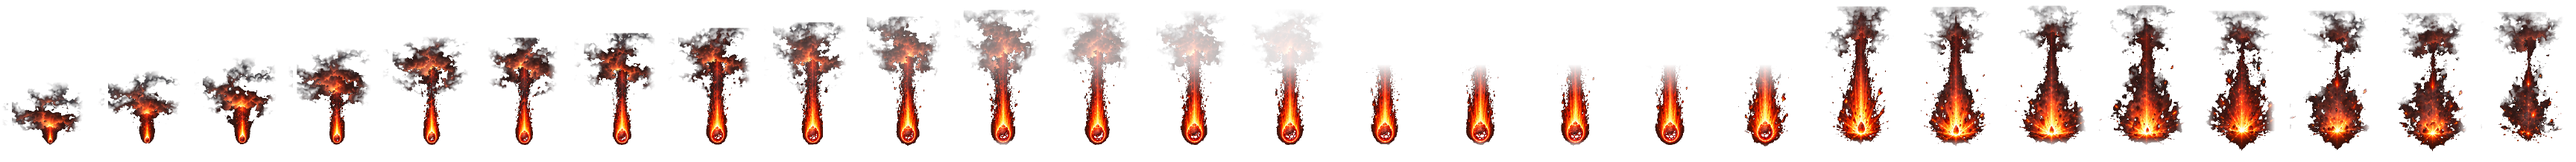
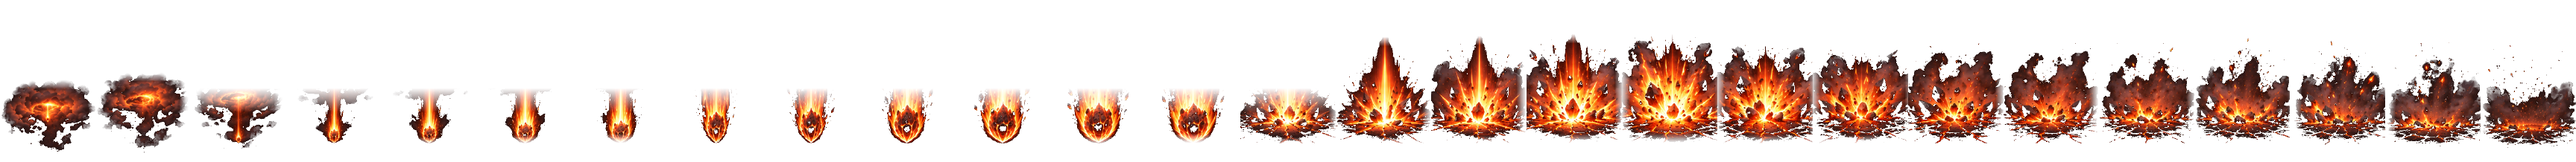
☄ Quarta folha do Meteoro (7×4), com a nuvem apagada no corte
"Remove as nuvens do terceiro em diante e troca no lugar do que estava."

A máquina de apagar fumaça (`veuFumaca`) entrou horas antes para a folha 6×5 e
serviu inteira. O que não serviu foram as MEDIDAS: lá a nuvem era uma COROA que
crescia atrás do meteoro no meio da queda (corte em y 128, rampa 42, do quadro 7
ao 14); aqui é um NINHO no alto de onde a pedra sai (corte em 150, rampa 32,
ligando de uma vez no terceiro). Os quatro números são desta arte e morrem com
ela — mesma natureza da `ESCALA_IMPACTO`, que já perseguiu cinco folhas.

✅ E A GRADE SAIU DO CÓDIGO. Quatro folhas em dois dias vieram 5×5, 3×3, 6×5 e
7×4; `COL` e `POR_COL` viraram argumentos. Um cortador que precisa ser EDITADO a
cada uso deixa de ser reproduzível — e foi isso que quase me custou o asset
errado ontem, ao recortar da `meteoro_vertical.png` em vez da `3`: saíram 17
quadros no lugar de 27, sem erro nenhum na tela.

🔴 O TERCEIRO QUADRO GUARDA UM RESTO DE NUVEM, E É LIMITAÇÃO DE MÉTODO, não um
parâmetro mal escolhido. O corte é medido de baixo para cima porque o que tem de
ficar parado no tile é a ROCHA — a mesma regra que ancora tudo pelo rodapé do
desenho. Nos dois primeiros quadros não existe rocha: o meteoro ainda está dentro
do ninho, e o rodapé É a nuvem. Corte ancorado embaixo não alcança nuvem que está
embaixo. Do quarto em diante o céu sai limpo, e na prática ninguém vê os
primeiros: 40 % do mergulho acontece fora da tela. Se incomodar, o conserto
[…]

diff --git a/client/src/main.ts b/client/src/main.ts
@@ -2831,24 +2831,30 @@ async function startGame(playerName: string, charClass: PlayerClass, gender: Gen
      * a pedra toca o chão, que é o fim do mergulho (`quedaMs`), e os dois lados
      * usam o mesmo número.
      *
-     * 🌫 **A COROA DE FUMAÇA É APAGADA NO CORTE, do meio da queda para o fim**
-     * (dono, 12/09: *"essa nuvem mais do meio pro final não precisa… depois é
-     * somente o meteoro mesmo"*). Quem faz isso é o `veuFumaca` do
+     * 🌫 **A NUVEM É APAGADA NO CORTE** (dono, 12/09: *"remove as nuvens do
+     * terceiro em diante"*). Quem faz isso é o `veuFumaca` do
      * `meteoro-grade2fx`, e ele precisa saber onde a queda acaba — os quadros do
      * estouro têm de 28 a 40 % da massa acima da mesma linha, e essa nuvem é o
-     * efeito. **O 19 do `fracaoQueda` abaixo é o mesmo número**, e vai na linha
+     * efeito. **O 14 do `fracaoQueda` abaixo é o mesmo número**, e vai na linha
      * de comando do cortador.
      *
-     * 🔴 **E a fonte é a `meteoro_vertical3.png`, não a `meteoro_vertical.png`.**
-     * Recortar da primeira dá 17 quadros em vez de 27 — o cortador acha as
-     * ilhas, não erra, é outra arte mesmo. Ficam as três no `arte-fonte/` porque
-     * o dono trocou a folha duas vezes no mesmo dia. Refazer o asset é:
+     * ⚠ **O TERCEIRO quadro guarda um resto de nuvem, e é limitação de método.**
+     * O cortador ancora cada desenho pelo RODAPÉ dele, e nos dois primeiros
+     * quadros não existe pedra: o rodapé é a própria nuvem. Um corte medido de
+     * baixo para cima — que é o que mantém a rocha parada no tile — não alcança
+     * uma nuvem que ESTÁ no rodapé. Do quarto em diante o céu sai limpo. Na
+     * prática ninguém vê: 40 % do mergulho acontece fora da tela.
      *
-     *     node tools/meteoro-grade2fx.mjs arte-fonte/fx/meteoro_vertical3.png meteoro_queda 19
+     * 🔴 **E a FONTE muda a cada folha.** A quarta (`meteoro_vertical4.png`,
+     * 7×4) substituiu a terceira (6×5). Recortar da errada não dá erro — dá
+     * outro número de quadros, e foi assim que uma tira de 17 quase entrou no
+     * lugar de uma de 27. Refazer o asset é:
+     *
+     *     node tools/meteoro-grade2fx.mjs arte-fonte/fx/meteoro_vertical4.png meteoro_queda 14 7 4
      */
     {
       magia: 'meteor_solo', arquivo: 'meteoro_queda', bolts: 1, quadros: 27,
-      fracaoQueda: 19 / 27, duracaoEstouro: 560, desvanece: 180, ancoraY: 0.88,
+      fracaoQueda: 14 / 27, duracaoEstouro: 560, desvanece: 180, ancoraY: 0.88,
       /*
        * ☄ **A pedra já ENTRA grande, e cresce pouco.** Pedido do dono em 13/09:
        * *"pode ser o meteoro um pouco menor e a animação já saindo um meteoro

diff --git a/docs/HISTORICO.md b/docs/HISTORICO.md
@@ -9,6 +9,47 @@ decisões de design ficaram travadas por teste.
 
 ---
 
+## 2026-09-12 (madrugada) — A quarta folha do Meteoro, e a nuvem que o rodapé não deixa apagar
+
+**Onde mora:** `COL`/`POR_COL` por argumento e os quatro `FUMACA_*` em
+`tools/meteoro-grade2fx.mjs` · `fracaoQueda` em `FOLHAS_QUEDA`,
+`client/src/main.ts` · `arte-fonte/fx/meteoro_vertical4.png`
+
+*"Remove as nuvens do terceiro em diante e troca no lugar do que estava."* Folha 7×4, fundo
+preto, com um NINHO de fumaça no alto de onde a pedra sai — desenho diferente da anterior,
+onde a nuvem era uma COROA que crescia atrás do meteoro no meio da queda.
+
+### A máquina de apagar fumaça já existia; o que mudou foram as medidas
+
+O `veuFumaca` entrou horas antes para a folha 6×5 e serviu inteiro. O que não serviu foram
+os números: lá o corte era em y 128 com rampa de 42, ligando do quadro 7 ao 14; aqui é 150
+com rampa de 32, ligando de uma vez no terceiro. ⚠ **Os quatro são desta ARTE e morrem com
+ela** — é a mesma natureza da `ESCALA_IMPACTO`, que já perseguiu cinco folhas.
+
+✅ **E a grade saiu do código.** Quatro folhas em dois dias vieram 5×5, 3×3, 6×5 e 7×4;
+`COL` e `POR_COL` viraram argumentos. Um cortador que precisa ser EDITADO a cada uso deixa
+de ser reproduzível — e foi exatamente isso que quase me custou o asset errado, ao recortar
+da `meteoro_vertical.png` em vez da `3`: saíram 17 quadros no lugar de 27, sem erro nenhum
+na tela.
+
+### 🔴 O terceiro quadro guarda um resto de nuvem, e é limitação de MÉTODO
+
+O corte é medido de baixo para cima, porque o que tem de ficar parado no tile é a ROCHA — é
+a mesma regra que faz o cortador ancorar tudo pelo rodapé do desenho. Só que nos dois
+primeiros quadros **não existe rocha**: o meteoro ainda está dentro do ninho, e o rodapé do
+desenho é a própria nuvem. Um corte ancorado embaixo não alcança uma nuvem que está embaixo.
+
+⚠ Do quarto quadro em diante o céu sai limpo. O terceiro fica com um resto, e na prática
+ninguém o vê: 40 % do mergulho acontece fora da tela. Se incomodar, o conserto barato é
+descartar os dois ou três primeiros quadros da tira — não é ajuste de parâmetro.
+
+✅ **`fracaoQueda` passou de 19/27 para 14/27**, medido na tira: as duas primeiras fileiras
+são queda (14 quadros) e as duas últimas, estouro (13). O mesmo número vai na linha de
+comando do cortador, porque os quadros do estouro carregam de 28 a 40 % da massa acima da
+linha de corte — aquela nuvem é o cogumelo, e apagá-la seria apagar o efeito.
+
+---
+
 ## 2026-09-12 (madrugada) — A fumaça do Meteoro sai no corte, e a Glacial aterrissa
 
 **Onde mora:** `veuFumaca` em `tools/meteoro-grade2fx.mjs` · `FUNDO` em
